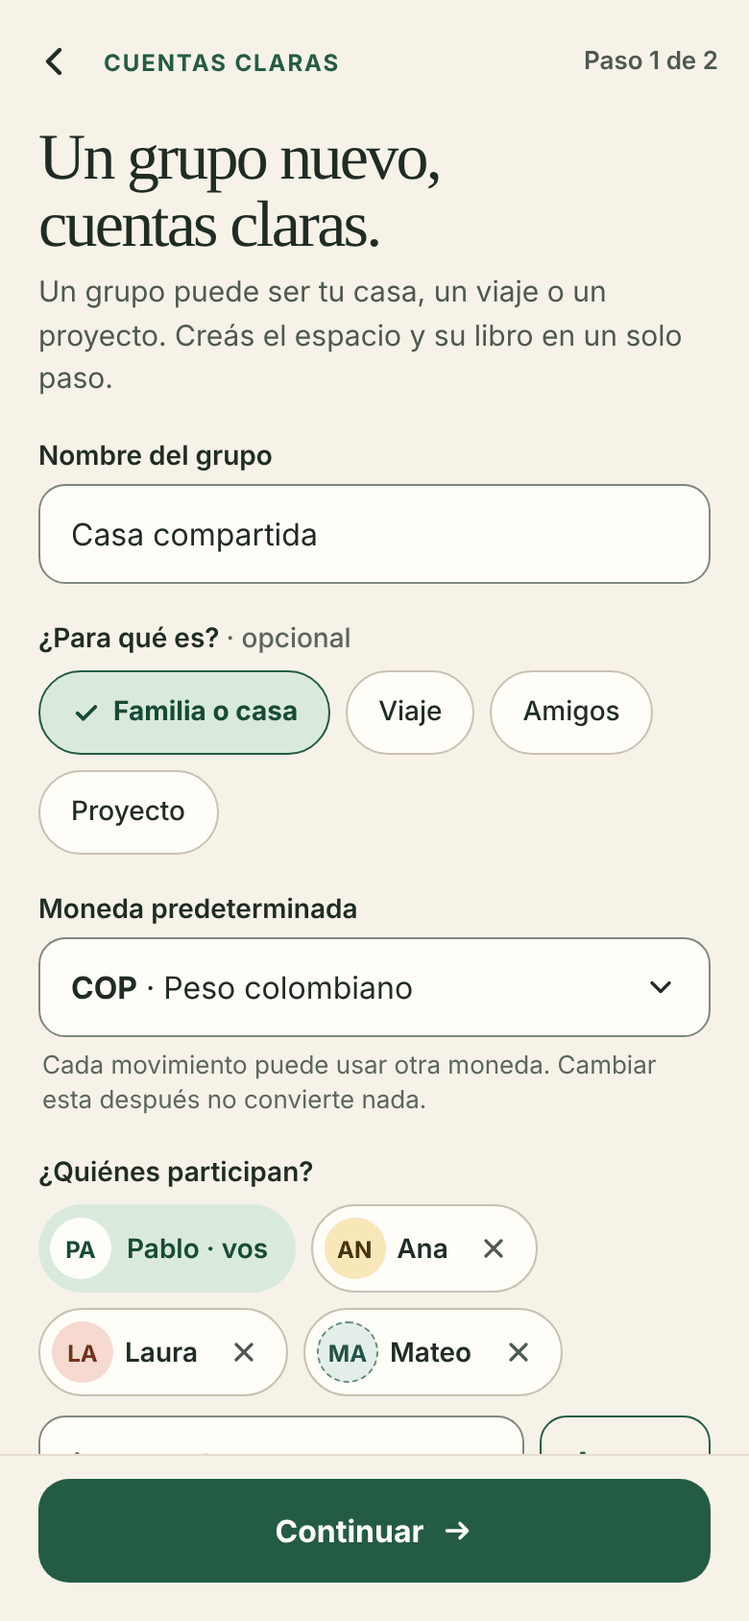
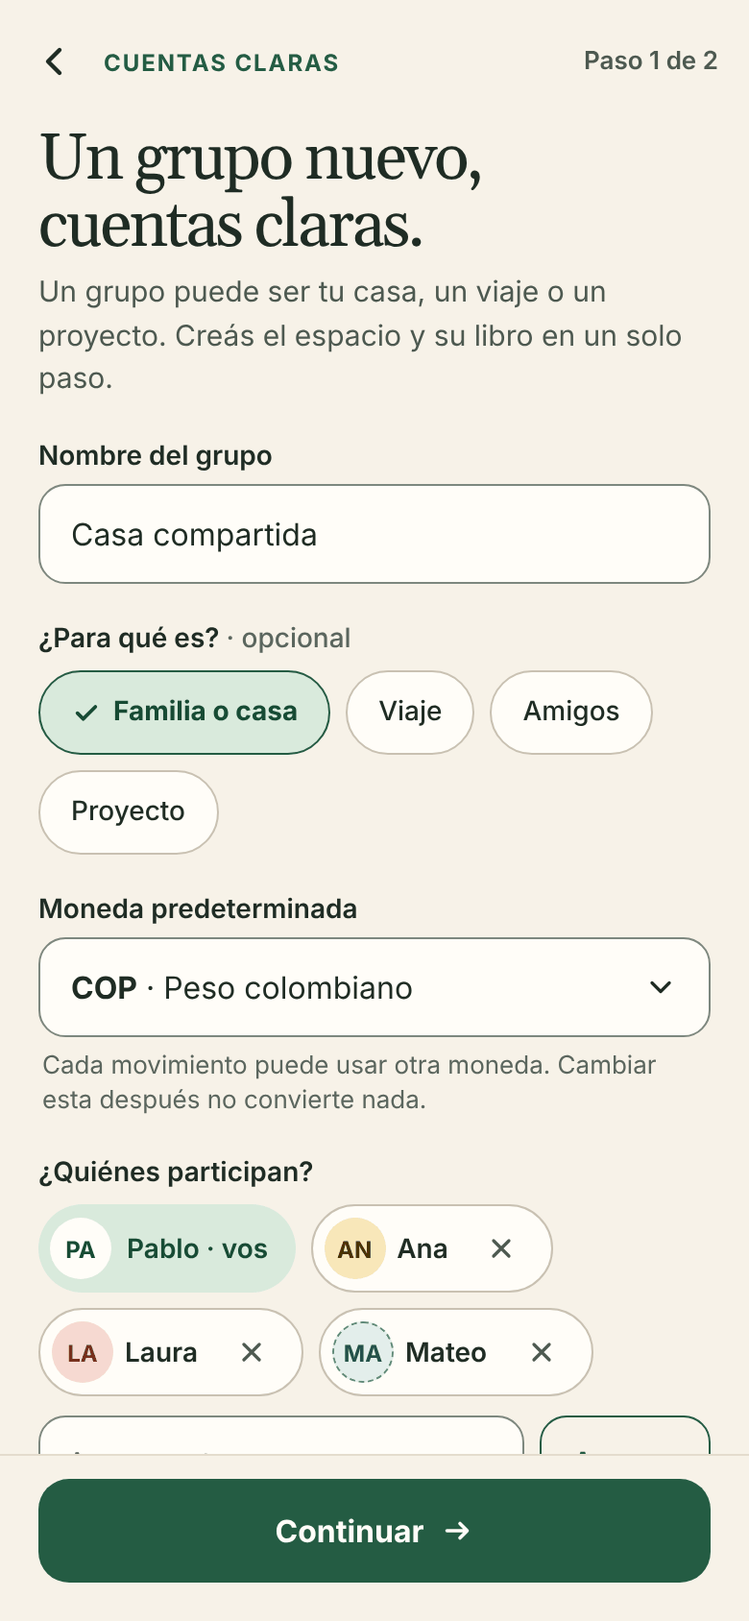
Corregir hallazgos de la verificación de Cuentas Claras y documentar sus límites
Contraste del texto secundario sobre el verde en modo oscuro (4,39 a 4,82),
placeholders con color del tema, botones Quitar a 44 px, capturas regeneradas
con tipografía de medidas Georgia, script de auditoría y sección de
verificación del README.

Claude-Session: https://claude.ai/code/session_01UbZx6jd23ueNQqx8cAgRSF

Changed region(s): [[0.0615, 0.0616, 0.6462, 0.154], [0.3077, 0.8009, 0.6462, 0.8626], [0.6462, 0.7393, 0.7692, 0.8626]]

diff --git a/docs/diseno/cuentas-claras/herramientas/auditar.js b/docs/diseno/cuentas-claras/herramientas/auditar.js
@@ -1,0 +1,80 @@
+// Auditoría automática de las 10 pantallas en claro y oscuro (Chromium).
+// Mide en el DOM: contraste de TODO el texto contra su fondo efectivo (WCAG AA: 4,5, o 3 si es texto
+// grande), tamaño de los controles táctiles (< 44 px), texto recortado, desbordes horizontales,
+// tamaño de letra < 11 px, botones sin nombre y campos sin etiqueta. Escribe audit.json y un resumen.
+// Uso: igual que capturar.js (mismo servidor en el puerto 8899 y carpeta fonts/). Sin argumentos.
+// Límites: no evalúa contraste de bordes ni de íconos, ni estados hover o foco, ni fondos con degradé.
+// Los resultados "tap" incluyen íconos decorativos y radios dentro de etiquetas: revisarlos a mano.
+const { chromium } = require('playwright');
+const screens=[['NuevoGrupo','phone'],['PuntoDePartida','phone'],['Importar','page'],['Main','phone'],['Movimientos','phone'],['Agregar','phone'],['Detalle','phone'],['SaldoDe','phone'],['Escritorio','page'],['Personas','phone']];
+const GEORGIA=`@font-face{font-family:Georgia;src:url(http://127.0.0.1:8899/fonts/gelasio-latin-400-normal.woff2);font-weight:400}@font-face{font-family:Georgia;src:url(http://127.0.0.1:8899/fonts/gelasio-latin-700-normal.woff2);font-weight:700}`;
+function pageAudit(){
+  const parse=c=>{const m=c.match(/rgba?\(([^)]+)\)/);if(!m)return null;const a=m[1].split(/[ ,\/]+/).filter(Boolean).map(Number);return {r:a[0],g:a[1],b:a[2],a:a.length>3?a[3]:1}};
+  const comp=(f,b)=>({r:f.r*f.a+b.r*(1-f.a),g:f.g*f.a+b.g*(1-f.a),b:f.b*f.a+b.b*(1-f.a),a:1});
+  const lum=c=>{const f=v=>{v/=255;return v<=.03928?v/12.92:Math.pow((v+.055)/1.055,2.4)};return .2126*f(c.r)+.7152*f(c.g)+.0722*f(c.b)};
+  const ratio=(a,b)=>{const x=lum(a),y=lum(b);return (Math.max(x,y)+.05)/(Math.min(x,y)+.05)};
+  const bgOf=el=>{ // composite ancestors bottom-up
+    let layers=[],n=el,grad=false;
+    while(n&&n.nodeType===1){const cs=getComputedStyle(n);const c=parse(cs.backgroundColor);
+      if(cs.backgroundImage&&cs.backgroundImage!=='none')grad=true;
+      if(c&&c.a>0)layers.push(c); if(c&&c.a>=1&&!grad)break; n=n.parentElement;}
+    let base={r:255,g:255,b:255,a:1}; for(let i=layers.length-1;i>=0;i--)base=comp(layers[i],base); return {c:base,grad};
+  };
+  const opac=el=>{let o=1,n=el;while(n&&n.nodeType===1){o*=parseFloat(getComputedStyle(n).opacity);n=n.parentElement}return o};
+  const out={contrast:[],layout:[],tap:[],fonts:new Set(),meta:{}};
+  const W=document.documentElement.clientWidth;
+  out.meta={sw:document.documentElement.scrollWidth,sh:document.documentElement.scrollHeight,bodyH:document.body.scrollHeight,W};
+  const walker=document.createTreeWalker(document.body,NodeFilter.SHOW_TEXT);
+  const seen=new Set();let t;
+  while(t=walker.nextNode()){
+    const txt=t.nodeValue.trim(); if(!txt)continue; const el=t.parentElement; if(!el||seen.has(el))continue; seen.add(el);
+    if(['SCRIPT','STYLE','HELMET','NOSCRIPT'].includes(el.tagName))continue;
+    const cs=getComputedStyle(el); if(cs.visibility==='hidden'||cs.display==='none')continue;
+    const r=el.getBoundingClientRect(); if(r.width===0||r.height===0)continue;
+    let fg=parse(cs.color); const bgr=bgOf(el); const o=opac(el); fg={...fg,a:fg.a*o};
+    const eff=comp(fg,bgr.c); const cr=ratio(eff,bgr.c);
+    const fs=parseFloat(cs.fontSize),fw=parseInt(cs.fontWeight);
+    const large=fs>=24||(fs>=18.66&&fw>=700); const need=large?3:4.5;
+    if(cr<need)out.contrast.push({txt:txt.slice(0,40),cr:+cr.toFixed(2),need,fs,fw,fg:cs.color,bg:`rgb(${bgr.c.r|0},${bgr.c.g|0},${bgr.c.b|0})`,grad:bgr.grad,tag:el.tagName+'.'+(el.className||'').toString().slice(0,20)});
+    if(fs<11)out.layout.push({kind:'small-font',txt:txt.slice(0,30),fs});
+  }
+  // layout
+  for(const el of document.body.querySelectorAll('*')){
+    const cs=getComputedStyle(el); if(cs.display==='none'||cs.visibility==='hidden')continue;
+    const r=el.getBoundingClientRect(); if(r.width===0&&r.height===0)continue;
+    if(['SCRIPT','STYLE','HELMET'].includes(el.tagName))continue;
+    // clipped text
+    if((cs.overflow==='hidden'||cs.overflowX==='hidden'||cs.textOverflow==='ellipsis')&&el.scrollWidth>el.clientWidth+1&&el.children.length<4&&el.textContent.trim())
+      out.layout.push({kind:'clipped',txt:el.textContent.trim().slice(0,40),sw:el.scrollWidth,cw:el.clientWidth});
+    // offscreen horizontally (unless inside scroll container)
+    if(r.right>W+1||r.left<-1){let n=el.parentElement,sc=false;while(n&&n!==document.body){const c=getComputedStyle(n);if(/(auto|scroll|hidden)/.test(c.overflowX)){sc=true;break}n=n.parentElement}
+      if(!sc)out.layout.push({kind:'offscreen',tag:el.tagName,txt:(el.textContent||'').trim().slice(0,30),l:Math.round(r.left),r:Math.round(r.right)});}
+    // tap targets
+    const tag=el.tagName; const isCtl=['BUTTON','A','SELECT','TEXTAREA'].includes(tag)||(tag==='INPUT'&&!['hidden'].includes(el.type))||el.getAttribute('role')==='button'||el.getAttribute('tabindex')==='0'||cs.cursor==='pointer';
+    if(isCtl&&!(el.children.length&&el.querySelector('button,a,input'))){ if(r.width<44||r.height<44)out.tap.push({tag,txt:((el.textContent||el.getAttribute('aria-label')||el.type||'')+'').trim().slice(0,28),w:Math.round(r.width),h:Math.round(r.height)});}
+    cs.fontFamily&&out.fonts.add(cs.fontFamily.split(',')[0].replace(/['"]/g,''));
+  }
+  out.fonts=[...out.fonts];
+  // images / svg without label
+  out.meta.imgsNoAlt=[...document.querySelectorAll('img:not([alt])')].length;
+  out.meta.btnNoName=[...document.querySelectorAll('button')].filter(b=>!(b.textContent.trim()||b.getAttribute('aria-label')||b.title)).length;
+  out.meta.inputNoLabel=[...document.querySelectorAll('input,select,textarea')].filter(i=>!(i.id&&document.querySelector(`label[for="${i.id}"]`))&&!i.closest('label')&&!i.getAttribute('aria-label')).length;
+  return out;
+}
+(async()=>{
+  const b=await chromium.launch(); const res={};
+  for(const scheme of ['light','dark']){
+    const ctx=await b.newContext({colorScheme:scheme,deviceScaleFactor:1});
+    await ctx.route('**/fonts.googleapis.com/**',r=>r.fulfill({status:200,contentType:'text/css',body:''}));
+    await ctx.addInitScript(`document.addEventListener('DOMContentLoaded',()=>{const s=document.createElement('style');s.textContent=${JSON.stringify(GEORGIA)};document.head.appendChild(s)})`);
+    for(const [f,kind] of screens){
+      const p=await ctx.newPage(); await p.setViewportSize(kind==='phone'?{width:390,height:844}:{width:1280,height:900});
+      await p.goto(`http://127.0.0.1:8899/${f}.dc.html`); await p.waitForTimeout(1200);
+      await p.evaluate(()=>document.fonts.ready);
+      res[`${f}|${scheme}`]=await p.evaluate(pageAudit); await p.close();
+    }
+    await ctx.close();
+  }
+  await b.close(); require('fs').writeFileSync('audit.json',JSON.stringify(res,null,1));
+  for(const [k,v] of Object.entries(res)){console.log(`${k}: sw=${v.meta.sw}/${v.meta.W} sh=${v.meta.sh} contrast=${v.contrast.length} layout=${v.layout.length} tap=${v.tap.length} fonts=${v.fonts.join('/')} noname=${v.meta.btnNoName} nolabel=${v.meta.inputNoLabel}`)}
+})();

diff --git a/docs/diseno/cuentas-claras/project/NuevoGrupo.dc.html b/docs/diseno/cuentas-claras/project/NuevoGrupo.dc.html
@@ -10,6 +10,7 @@
 <helmet>
 <link rel="stylesheet" href="https://fonts.googleapis.com/css2?family=Inter:wght@400;500;600;700;800&display=swap">
 <style>
+input::placeholder,textarea::placeholder{color:var(--ink-3);opacity:1}
 :root{color-scheme:light dark;--bg:#f7f2e8;--surface:#fffdf8;--ink:#1f2c24;--ink-1:#3d4a41;--ink-2:#4d5950;--ink-3:#5b665e;--accent-bg:#245c43;--accent-text:#245c43;--accent-line:#245c43;--accent-deep:#174b34;--accent-soft:#d9eadc;--ok-bg:#eef6ef;--neg:#a8412c;--coral-soft:#f6d9d1;--coral-text:#7a2e1d;--yel-soft:#f8e7b9;--yel-text:#4a3300;--warn-bg:#fbf4de;--warn-line:#ecd48f;--warn-line-2:#b79b45;--sunken:#fbf7ee;--teal-soft:#e3eeeb;--teal-text:#24504b;--teal-line:#5b8a7f;--line-soft:#efe8db;--line:#e4dccd;--line-strong:#c9c1b2;--line-mid:#d9d2c5;--field:#7d887f;--chip:#ece4d5;--shadow:rgba(31,44,36,.2);}
 @media (prefers-color-scheme: dark){:root:not([data-theme="light"]){--bg:#121c17;--surface:#1b2822;--ink:#ece6d8;--ink-1:#cdd5cb;--ink-2:#b9c3b9;--ink-3:#a0ab9f;--accent-bg:#2f7a58;--accent-text:#7fd0a6;--accent-line:#6fc29a;--accent-deep:#a8e0c2;--accent-soft:#1f3a2d;--ok-bg:#1a3126;--neg:#f2a08b;--coral-soft:#4a2b24;--coral-text:#f6bfb0;--yel-soft:#4a3d17;--yel-text:#f3d98e;--warn-bg:#2c2814;--warn-line:#6d5c22;--warn-line-2:#8c7430;--sunken:#1f2c26;--teal-soft:#1f3a39;--teal-text:#a3d6ce;--teal-line:#7fb3a6;--line-soft:#2a3931;--line:#31423a;--line-strong:#50625a;--line-mid:#3c4c43;--field:#8a998f;--chip:#26352d;--shadow:rgba(0,0,0,.55);}}
 :root[data-theme="dark"]{color-scheme:dark;--bg:#121c17;--surface:#1b2822;--ink:#ece6d8;--ink-1:#cdd5cb;--ink-2:#b9c3b9;--ink-3:#a0ab9f;--accent-bg:#2f7a58;--accent-text:#7fd0a6;--accent-line:#6fc29a;--accent-deep:#a8e0c2;--accent-soft:#1f3a2d;--ok-bg:#1a3126;--neg:#f2a08b;--coral-soft:#4a2b24;--coral-text:#f6bfb0;--yel-soft:#4a3d17;--yel-text:#f3d98e;--warn-bg:#2c2814;--warn-line:#6d5c22;--warn-line-2:#8c7430;--sunken:#1f2c26;--teal-soft:#1f3a39;--teal-text:#a3d6ce;--teal-line:#7fb3a6;--line-soft:#2a3931;--line:#31423a;--line-strong:#50625a;--line-mid:#3c4c43;--field:#8a998f;--chip:#26352d;--shadow:rgba(0,0,0,.55);}
@@ -58,13 +59,13 @@ a{color:var(--accent-text)}a:hover{color:var(--accent-deep)}
         <span aria-hidden="true" style="display:grid;place-items:center;width:32px;height:32px;border-radius:50%;background:var(--surface);font-size:12px;font-weight:700">PA</span>Pablo · vos</span>
       <span style="display:inline-flex;align-items:center;gap:6px;min-height:44px;padding:0 4px 0 6px;border-radius:999px;background:var(--surface);border:1.5px solid var(--line-strong);font-size:14px;font-weight:600">
         <span aria-hidden="true" style="display:grid;place-items:center;width:32px;height:32px;border-radius:50%;background:var(--yel-soft);color:var(--yel-text);font-size:12px;font-weight:700">AN</span>Ana
-        <button aria-label="Quitar a Ana" style="display:grid;place-items:center;width:36px;height:36px;padding:0;border:0;border-radius:50%;background:transparent;color:var(--ink-2)"><svg width="16" height="16" viewBox="0 0 24 24" fill="none" stroke="currentColor" stroke-width="2.4" stroke-linecap="round" aria-hidden="true"><path d="M6 6l12 12M18 6 6 18"/></svg></button></span>
+        <button aria-label="Quitar a Ana" style="display:grid;place-items:center;width:44px;height:44px;padding:0;border:0;border-radius:50%;background:transparent;color:var(--ink-2)"><svg width="16" height="16" viewBox="0 0 24 24" fill="none" stroke="currentColor" stroke-width="2.4" stroke-linecap="round" aria-hidden="true"><path d="M6 6l12 12M18 6 6 18"/></svg></button></span>
       <span style="display:inline-flex;align-items:center;gap:6px;min-height:44px;padding:0 4px 0 6px;border-radius:999px;background:var(--surface);border:1.5px solid var(--line-strong);font-size:14px;font-weight:600">
         <span aria-hidden="true" style="display:grid;place-items:center;width:32px;height:32px;border-radius:50%;background:var(--coral-soft);color:var(--coral-text);font-size:12px;font-weight:700">LA</span>Laura
-        <button aria-label="Quitar a Laura" style="display:grid;place-items:center;width:36px;height:36px;padding:0;border:0;border-radius:50%;background:transparent;color:var(--ink-2)"><svg width="16" height="16" viewBox="0 0 24 24" fill="none" stroke="currentColor" stroke-width="2.4" stroke-linecap="round" aria-hidden="true"><path d="M6 6l12 12M18 6 6 18"/></svg></button></span>
+        <button aria-label="Quitar a Laura" style="display:grid;place-items:center;width:44px;height:44px;padding:0;border:0;border-radius:50%;background:transparent;color:var(--ink-2)"><svg width="16" height="16" viewBox="0 0 24 24" fill="none" stroke="currentColor" stroke-width="2.4" stroke-linecap="round" aria-hidden="true"><path d="M6 6l12 12M18 6 6 18"/></svg></button></span>
       <span style="display:inline-flex;align-items:center;gap:6px;min-height:44px;padding:0 4px 0 6px;border-radius:999px;background:var(--surface);border:1.5px solid var(--line-strong);font-size:14px;font-weight:600">
         <span aria-hidden="true" style="display:grid;place-items:center;width:30px;height:30px;border-radius:50%;border:1.5px dashed var(--teal-line);background:var(--teal-soft);color:var(--teal-text);font-size:12px;font-weight:700">MA</span>Mateo
-        <button aria-label="Quitar a Mateo" style="display:grid;place-items:center;width:36px;height:36px;padding:0;border:0;border-radius:50%;background:transparent;color:var(--ink-2)"><svg width="16" height="16" viewBox="0 0 24 24" fill="none" stroke="currentColor" stroke-width="2.4" stroke-linecap="round" aria-hidden="true"><path d="M6 6l12 12M18 6 6 18"/></svg></button></span>
+        <button aria-label="Quitar a Mateo" style="display:grid;place-items:center;width:44px;height:44px;padding:0;border:0;border-radius:50%;background:transparent;color:var(--ink-2)"><svg width="16" height="16" viewBox="0 0 24 24" fill="none" stroke="currentColor" stroke-width="2.4" stroke-linecap="round" aria-hidden="true"><path d="M6 6l12 12M18 6 6 18"/></svg></button></span>
     </div>
 
     <div style="display:flex;gap:8px;margin-top:10px">

diff --git a/docs/diseno/cuentas-claras/project/Escritorio.dc.html b/docs/diseno/cuentas-claras/project/Escritorio.dc.html
@@ -10,6 +10,7 @@
 <helmet>
 <link rel="stylesheet" href="https://fonts.googleapis.com/css2?family=Inter:wght@400;500;600;700;800&display=swap">
 <style>
+input::placeholder,textarea::placeholder{color:var(--ink-3);opacity:1}
 :root{color-scheme:light dark;--bg:#f7f2e8;--surface:#fffdf8;--ink:#1f2c24;--ink-1:#3d4a41;--ink-2:#4d5950;--ink-3:#5b665e;--accent-bg:#245c43;--accent-text:#245c43;--accent-line:#245c43;--accent-deep:#174b34;--accent-soft:#d9eadc;--ok-bg:#eef6ef;--neg:#a8412c;--coral-soft:#f6d9d1;--coral-text:#7a2e1d;--yel-soft:#f8e7b9;--yel-text:#4a3300;--warn-bg:#fbf4de;--warn-line:#ecd48f;--warn-line-2:#b79b45;--sunken:#fbf7ee;--teal-soft:#e3eeeb;--teal-text:#24504b;--teal-line:#5b8a7f;--line-soft:#efe8db;--line:#e4dccd;--line-strong:#c9c1b2;--line-mid:#d9d2c5;--field:#7d887f;--chip:#ece4d5;--shadow:rgba(31,44,36,.2);}
 @media (prefers-color-scheme: dark){:root:not([data-theme="light"]){--bg:#121c17;--surface:#1b2822;--ink:#ece6d8;--ink-1:#cdd5cb;--ink-2:#b9c3b9;--ink-3:#a0ab9f;--accent-bg:#2f7a58;--accent-text:#7fd0a6;--accent-line:#6fc29a;--accent-deep:#a8e0c2;--accent-soft:#1f3a2d;--ok-bg:#1a3126;--neg:#f2a08b;--coral-soft:#4a2b24;--coral-text:#f6bfb0;--yel-soft:#4a3d17;--yel-text:#f3d98e;--warn-bg:#2c2814;--warn-line:#6d5c22;--warn-line-2:#8c7430;--sunken:#1f2c26;--teal-soft:#1f3a39;--teal-text:#a3d6ce;--teal-line:#7fb3a6;--line-soft:#2a3931;--line:#31423a;--line-strong:#50625a;--line-mid:#3c4c43;--field:#8a998f;--chip:#26352d;--shadow:rgba(0,0,0,.55);}}
 :root[data-theme="dark"]{color-scheme:dark;--bg:#121c17;--surface:#1b2822;--ink:#ece6d8;--ink-1:#cdd5cb;--ink-2:#b9c3b9;--ink-3:#a0ab9f;--accent-bg:#2f7a58;--accent-text:#7fd0a6;--accent-line:#6fc29a;--accent-deep:#a8e0c2;--accent-soft:#1f3a2d;--ok-bg:#1a3126;--neg:#f2a08b;--coral-soft:#4a2b24;--coral-text:#f6bfb0;--yel-soft:#4a3d17;--yel-text:#f3d98e;--warn-bg:#2c2814;--warn-line:#6d5c22;--warn-line-2:#8c7430;--sunken:#1f2c26;--teal-soft:#1f3a39;--teal-text:#a3d6ce;--teal-line:#7fb3a6;--line-soft:#2a3931;--line:#31423a;--line-strong:#50625a;--line-mid:#3c4c43;--field:#8a998f;--chip:#26352d;--shadow:rgba(0,0,0,.55);}
@@ -65,9 +66,9 @@ a{color:var(--accent-text)}a:hover{color:var(--accent-deep)}
         </div>
 
         <div style="padding:18px 20px;border-radius:24px;background:var(--accent-bg);color:#fffdf8">
-          <div style="font-size:12px;font-weight:600;color:#e3efe6">Tu saldo · COP</div>
+          <div style="font-size:12px;font-weight:600;color:#f2f8f4">Tu saldo · COP</div>
           <div style="font-size:38px;font-weight:800;letter-spacing:-.03em;line-height:1.15;font-variant-numeric:tabular-nums">+$1.748.350</div>
-          <p style="margin:4px 0 12px;font-size:14px;line-height:1.45;color:#e3efe6">Te corresponde recibir. Lo explican 38 movimientos.</p>
+          <p style="margin:4px 0 12px;font-size:14px;line-height:1.45;color:#f2f8f4">Te corresponde recibir. Lo explican 38 movimientos.</p>
           <a href="SaldoDe.dc.html" style="display:inline-flex;align-items:center;gap:6px;min-height:44px;padding:0 16px;border-radius:999px;border:1.5px solid rgba(255,253,248,.6);color:#fffdf8;font-size:14px;font-weight:600;text-decoration:none">Ver por qué
             <svg width="14" height="14" viewBox="0 0 24 24" fill="none" stroke="currentColor" stroke-width="2.4" stroke-linecap="round" stroke-linejoin="round" aria-hidden="true"><path d="m9 6 6 6-6 6"/></svg></a>
         </div>

diff --git a/docs/diseno/cuentas-claras/herramientas/capturar.js b/docs/diseno/cuentas-claras/herramientas/capturar.js
@@ -1,12 +1,17 @@
 // Genera las capturas PNG de docs/diseno/cuentas-claras/capturas (claro y oscuro).
 // Uso (ver README.md, sección "Regenerar las capturas"):
-//   1. Carpeta temporal con los .dc.html de ../project y un support.js (el runtime del tipo Design).
+//   1. Carpeta temporal con los .dc.html de ../project, un support.js (el runtime del tipo Design)
+//      y una subcarpeta fonts/ con gelasio-latin-400-normal.woff2 y gelasio-latin-700-normal.woff2
+//      (npm i @fontsource/gelasio; están en node_modules/@fontsource/gelasio/files).
 //   2. python3 -m http.server 8899 --bind 127.0.0.1   (dentro de esa carpeta)
 //   3. NODE_PATH=$(npm root -g) node capturar.js <carpeta-de-salida>
-// Requiere Playwright. Si no hay acceso a Google Fonts, Inter cae a la tipografía del sistema.
+// Requiere Playwright y la tipografía Inter instalada en el sistema (o npm i @fontsource/inter).
+// Georgia no existe en Linux: se sustituye por Gelasio, que tiene sus mismas medidas. Los trazos
+// de las letras difieren un poco; en macOS, Windows e iOS el diseño usa la Georgia real.
 const { chromium } = require('playwright');
 const fs=require('fs');
 const OUT=process.argv[2];
+const GEORGIA=`@font-face{font-family:Georgia;src:url(http://127.0.0.1:8899/fonts/gelasio-latin-400-normal.woff2);font-weight:400}@font-face{font-family:Georgia;src:url(http://127.0.0.1:8899/fonts/gelasio-latin-700-normal.woff2);font-weight:700}`;
 const boards=[
  ['NuevoGrupo','01-nuevo-grupo','phone'],['PuntoDePartida','02-punto-de-partida','phone'],['Importar','03-importar-splitwise','page'],
  ['Main','04-saldos','phone'],['Movimientos','05-movimientos-y-busqueda','phone'],['Agregar','06-agregar-movimiento','phone'],
@@ -20,8 +25,8 @@ const boards=[
       const p=await ctx.newPage();
       await p.setViewportSize(kind==='phone'?{width:390,height:844}:{width:1280,height:900});
       p.on('pageerror',e=>console.log('pageerror',file,e.message.slice(0,200)));
-      await p.route('**/fonts.googleapis.com/**',r=>r.abort());
-      await p.goto('http://127.0.0.1:8899/'+file+'.dc.html'); await p.waitForTimeout(900);
+      await p.route('**/fonts.googleapis.com/**',r=>r.fulfill({status:200,contentType:'text/css',body:''}));await p.addInitScript(`document.addEventListener('DOMContentLoaded',()=>{const s=document.createElement('style');s.textContent=${JSON.stringify(GEORGIA)};document.head.appendChild(s)})`);
+      await p.goto('http://127.0.0.1:8899/'+file+'.dc.html'); await p.waitForTimeout(900);await p.evaluate(()=>document.fonts.ready);
       const shot=async(n,full)=>p.screenshot({path:`${OUT}/${dir}/${n}.png`,fullPage:!!full});
       await shot(name, kind==='page');
       if(file==='Main'){ try{await p.getByRole('button',{name:/USD/}).first().click({timeout:3000});await p.waitForTimeout(400);await shot('04b-saldos-usd');}catch(e){console.log('skip USD',e.message.slice(0,80));} }

diff --git a/docs/diseno/cuentas-claras/project/Agregar.dc.html b/docs/diseno/cuentas-claras/project/Agregar.dc.html
@@ -10,6 +10,7 @@
 <helmet>
 <link rel="stylesheet" href="https://fonts.googleapis.com/css2?family=Inter:wght@400;500;600;700;800&display=swap">
 <style>
+input::placeholder,textarea::placeholder{color:var(--ink-3);opacity:1}
 :root{color-scheme:light dark;--bg:#f7f2e8;--surface:#fffdf8;--ink:#1f2c24;--ink-1:#3d4a41;--ink-2:#4d5950;--ink-3:#5b665e;--accent-bg:#245c43;--accent-text:#245c43;--accent-line:#245c43;--accent-deep:#174b34;--accent-soft:#d9eadc;--ok-bg:#eef6ef;--neg:#a8412c;--coral-soft:#f6d9d1;--coral-text:#7a2e1d;--yel-soft:#f8e7b9;--yel-text:#4a3300;--warn-bg:#fbf4de;--warn-line:#ecd48f;--warn-line-2:#b79b45;--sunken:#fbf7ee;--teal-soft:#e3eeeb;--teal-text:#24504b;--teal-line:#5b8a7f;--line-soft:#efe8db;--line:#e4dccd;--line-strong:#c9c1b2;--line-mid:#d9d2c5;--field:#7d887f;--chip:#ece4d5;--shadow:rgba(31,44,36,.2);}
 @media (prefers-color-scheme: dark){:root:not([data-theme="light"]){--bg:#121c17;--surface:#1b2822;--ink:#ece6d8;--ink-1:#cdd5cb;--ink-2:#b9c3b9;--ink-3:#a0ab9f;--accent-bg:#2f7a58;--accent-text:#7fd0a6;--accent-line:#6fc29a;--accent-deep:#a8e0c2;--accent-soft:#1f3a2d;--ok-bg:#1a3126;--neg:#f2a08b;--coral-soft:#4a2b24;--coral-text:#f6bfb0;--yel-soft:#4a3d17;--yel-text:#f3d98e;--warn-bg:#2c2814;--warn-line:#6d5c22;--warn-line-2:#8c7430;--sunken:#1f2c26;--teal-soft:#1f3a39;--teal-text:#a3d6ce;--teal-line:#7fb3a6;--line-soft:#2a3931;--line:#31423a;--line-strong:#50625a;--line-mid:#3c4c43;--field:#8a998f;--chip:#26352d;--shadow:rgba(0,0,0,.55);}}
 :root[data-theme="dark"]{color-scheme:dark;--bg:#121c17;--surface:#1b2822;--ink:#ece6d8;--ink-1:#cdd5cb;--ink-2:#b9c3b9;--ink-3:#a0ab9f;--accent-bg:#2f7a58;--accent-text:#7fd0a6;--accent-line:#6fc29a;--accent-deep:#a8e0c2;--accent-soft:#1f3a2d;--ok-bg:#1a3126;--neg:#f2a08b;--coral-soft:#4a2b24;--coral-text:#f6bfb0;--yel-soft:#4a3d17;--yel-text:#f3d98e;--warn-bg:#2c2814;--warn-line:#6d5c22;--warn-line-2:#8c7430;--sunken:#1f2c26;--teal-soft:#1f3a39;--teal-text:#a3d6ce;--teal-line:#7fb3a6;--line-soft:#2a3931;--line:#31423a;--line-strong:#50625a;--line-mid:#3c4c43;--field:#8a998f;--chip:#26352d;--shadow:rgba(0,0,0,.55);}

diff --git a/docs/diseno/cuentas-claras/project/Detalle.dc.html b/docs/diseno/cuentas-claras/project/Detalle.dc.html
@@ -10,6 +10,7 @@
 <helmet>
 <link rel="stylesheet" href="https://fonts.googleapis.com/css2?family=Inter:wght@400;500;600;700;800&display=swap">
 <style>
+input::placeholder,textarea::placeholder{color:var(--ink-3);opacity:1}
 :root{color-scheme:light dark;--bg:#f7f2e8;--surface:#fffdf8;--ink:#1f2c24;--ink-1:#3d4a41;--ink-2:#4d5950;--ink-3:#5b665e;--accent-bg:#245c43;--accent-text:#245c43;--accent-line:#245c43;--accent-deep:#174b34;--accent-soft:#d9eadc;--ok-bg:#eef6ef;--neg:#a8412c;--coral-soft:#f6d9d1;--coral-text:#7a2e1d;--yel-soft:#f8e7b9;--yel-text:#4a3300;--warn-bg:#fbf4de;--warn-line:#ecd48f;--warn-line-2:#b79b45;--sunken:#fbf7ee;--teal-soft:#e3eeeb;--teal-text:#24504b;--teal-line:#5b8a7f;--line-soft:#efe8db;--line:#e4dccd;--line-strong:#c9c1b2;--line-mid:#d9d2c5;--field:#7d887f;--chip:#ece4d5;--shadow:rgba(31,44,36,.2);}
 @media (prefers-color-scheme: dark){:root:not([data-theme="light"]){--bg:#121c17;--surface:#1b2822;--ink:#ece6d8;--ink-1:#cdd5cb;--ink-2:#b9c3b9;--ink-3:#a0ab9f;--accent-bg:#2f7a58;--accent-text:#7fd0a6;--accent-line:#6fc29a;--accent-deep:#a8e0c2;--accent-soft:#1f3a2d;--ok-bg:#1a3126;--neg:#f2a08b;--coral-soft:#4a2b24;--coral-text:#f6bfb0;--yel-soft:#4a3d17;--yel-text:#f3d98e;--warn-bg:#2c2814;--warn-line:#6d5c22;--warn-line-2:#8c7430;--sunken:#1f2c26;--teal-soft:#1f3a39;--teal-text:#a3d6ce;--teal-line:#7fb3a6;--line-soft:#2a3931;--line:#31423a;--line-strong:#50625a;--line-mid:#3c4c43;--field:#8a998f;--chip:#26352d;--shadow:rgba(0,0,0,.55);}}
 :root[data-theme="dark"]{color-scheme:dark;--bg:#121c17;--surface:#1b2822;--ink:#ece6d8;--ink-1:#cdd5cb;--ink-2:#b9c3b9;--ink-3:#a0ab9f;--accent-bg:#2f7a58;--accent-text:#7fd0a6;--accent-line:#6fc29a;--accent-deep:#a8e0c2;--accent-soft:#1f3a2d;--ok-bg:#1a3126;--neg:#f2a08b;--coral-soft:#4a2b24;--coral-text:#f6bfb0;--yel-soft:#4a3d17;--yel-text:#f3d98e;--warn-bg:#2c2814;--warn-line:#6d5c22;--warn-line-2:#8c7430;--sunken:#1f2c26;--teal-soft:#1f3a39;--teal-text:#a3d6ce;--teal-line:#7fb3a6;--line-soft:#2a3931;--line:#31423a;--line-strong:#50625a;--line-mid:#3c4c43;--field:#8a998f;--chip:#26352d;--shadow:rgba(0,0,0,.55);}

diff --git a/docs/diseno/cuentas-claras/project/Importar.dc.html b/docs/diseno/cuentas-claras/project/Importar.dc.html
@@ -10,6 +10,7 @@
 <helmet>
 <link rel="stylesheet" href="https://fonts.googleapis.com/css2?family=Inter:wght@400;500;600;700;800&display=swap">
 <style>
+input::placeholder,textarea::placeholder{color:var(--ink-3);opacity:1}
 :root{color-scheme:light dark;--bg:#f7f2e8;--surface:#fffdf8;--ink:#1f2c24;--ink-1:#3d4a41;--ink-2:#4d5950;--ink-3:#5b665e;--accent-bg:#245c43;--accent-text:#245c43;--accent-line:#245c43;--accent-deep:#174b34;--accent-soft:#d9eadc;--ok-bg:#eef6ef;--neg:#a8412c;--coral-soft:#f6d9d1;--coral-text:#7a2e1d;--yel-soft:#f8e7b9;--yel-text:#4a3300;--warn-bg:#fbf4de;--warn-line:#ecd48f;--warn-line-2:#b79b45;--sunken:#fbf7ee;--teal-soft:#e3eeeb;--teal-text:#24504b;--teal-line:#5b8a7f;--line-soft:#efe8db;--line:#e4dccd;--line-strong:#c9c1b2;--line-mid:#d9d2c5;--field:#7d887f;--chip:#ece4d5;--shadow:rgba(31,44,36,.2);}
 @media (prefers-color-scheme: dark){:root:not([data-theme="light"]){--bg:#121c17;--surface:#1b2822;--ink:#ece6d8;--ink-1:#cdd5cb;--ink-2:#b9c3b9;--ink-3:#a0ab9f;--accent-bg:#2f7a58;--accent-text:#7fd0a6;--accent-line:#6fc29a;--accent-deep:#a8e0c2;--accent-soft:#1f3a2d;--ok-bg:#1a3126;--neg:#f2a08b;--coral-soft:#4a2b24;--coral-text:#f6bfb0;--yel-soft:#4a3d17;--yel-text:#f3d98e;--warn-bg:#2c2814;--warn-line:#6d5c22;--warn-line-2:#8c7430;--sunken:#1f2c26;--teal-soft:#1f3a39;--teal-text:#a3d6ce;--teal-line:#7fb3a6;--line-soft:#2a3931;--line:#31423a;--line-strong:#50625a;--line-mid:#3c4c43;--field:#8a998f;--chip:#26352d;--shadow:rgba(0,0,0,.55);}}
 :root[data-theme="dark"]{color-scheme:dark;--bg:#121c17;--surface:#1b2822;--ink:#ece6d8;--ink-1:#cdd5cb;--ink-2:#b9c3b9;--ink-3:#a0ab9f;--accent-bg:#2f7a58;--accent-text:#7fd0a6;--accent-line:#6fc29a;--accent-deep:#a8e0c2;--accent-soft:#1f3a2d;--ok-bg:#1a3126;--neg:#f2a08b;--coral-soft:#4a2b24;--coral-text:#f6bfb0;--yel-soft:#4a3d17;--yel-text:#f3d98e;--warn-bg:#2c2814;--warn-line:#6d5c22;--warn-line-2:#8c7430;--sunken:#1f2c26;--teal-soft:#1f3a39;--teal-text:#a3d6ce;--teal-line:#7fb3a6;--line-soft:#2a3931;--line:#31423a;--line-strong:#50625a;--line-mid:#3c4c43;--field:#8a998f;--chip:#26352d;--shadow:rgba(0,0,0,.55);}

diff --git a/docs/diseno/cuentas-claras/project/Movimientos.dc.html b/docs/diseno/cuentas-claras/project/Movimientos.dc.html
@@ -10,6 +10,7 @@
 <helmet>
 <link rel="stylesheet" href="https://fonts.googleapis.com/css2?family=Inter:wght@400;500;600;700;800&display=swap">
 <style>
+input::placeholder,textarea::placeholder{color:var(--ink-3);opacity:1}
 :root{color-scheme:light dark;--bg:#f7f2e8;--surface:#fffdf8;--ink:#1f2c24;--ink-1:#3d4a41;--ink-2:#4d5950;--ink-3:#5b665e;--accent-bg:#245c43;--accent-text:#245c43;--accent-line:#245c43;--accent-deep:#174b34;--accent-soft:#d9eadc;--ok-bg:#eef6ef;--neg:#a8412c;--coral-soft:#f6d9d1;--coral-text:#7a2e1d;--yel-soft:#f8e7b9;--yel-text:#4a3300;--warn-bg:#fbf4de;--warn-line:#ecd48f;--warn-line-2:#b79b45;--sunken:#fbf7ee;--teal-soft:#e3eeeb;--teal-text:#24504b;--teal-line:#5b8a7f;--line-soft:#efe8db;--line:#e4dccd;--line-strong:#c9c1b2;--line-mid:#d9d2c5;--field:#7d887f;--chip:#ece4d5;--shadow:rgba(31,44,36,.2);}
 @media (prefers-color-scheme: dark){:root:not([data-theme="light"]){--bg:#121c17;--surface:#1b2822;--ink:#ece6d8;--ink-1:#cdd5cb;--ink-2:#b9c3b9;--ink-3:#a0ab9f;--accent-bg:#2f7a58;--accent-text:#7fd0a6;--accent-line:#6fc29a;--accent-deep:#a8e0c2;--accent-soft:#1f3a2d;--ok-bg:#1a3126;--neg:#f2a08b;--coral-soft:#4a2b24;--coral-text:#f6bfb0;--yel-soft:#4a3d17;--yel-text:#f3d98e;--warn-bg:#2c2814;--warn-line:#6d5c22;--warn-line-2:#8c7430;--sunken:#1f2c26;--teal-soft:#1f3a39;--teal-text:#a3d6ce;--teal-line:#7fb3a6;--line-soft:#2a3931;--line:#31423a;--line-strong:#50625a;--line-mid:#3c4c43;--field:#8a998f;--chip:#26352d;--shadow:rgba(0,0,0,.55);}}
 :root[data-theme="dark"]{color-scheme:dark;--bg:#121c17;--surface:#1b2822;--ink:#ece6d8;--ink-1:#cdd5cb;--ink-2:#b9c3b9;--ink-3:#a0ab9f;--accent-bg:#2f7a58;--accent-text:#7fd0a6;--accent-line:#6fc29a;--accent-deep:#a8e0c2;--accent-soft:#1f3a2d;--ok-bg:#1a3126;--neg:#f2a08b;--coral-soft:#4a2b24;--coral-text:#f6bfb0;--yel-soft:#4a3d17;--yel-text:#f3d98e;--warn-bg:#2c2814;--warn-line:#6d5c22;--warn-line-2:#8c7430;--sunken:#1f2c26;--teal-soft:#1f3a39;--teal-text:#a3d6ce;--teal-line:#7fb3a6;--line-soft:#2a3931;--line:#31423a;--line-strong:#50625a;--line-mid:#3c4c43;--field:#8a998f;--chip:#26352d;--shadow:rgba(0,0,0,.55);}

diff --git a/docs/diseno/cuentas-claras/project/Personas.dc.html b/docs/diseno/cuentas-claras/project/Personas.dc.html
@@ -10,6 +10,7 @@
 <helmet>
 <link rel="stylesheet" href="https://fonts.googleapis.com/css2?family=Inter:wght@400;500;600;700;800&display=swap">
 <style>
+input::placeholder,textarea::placeholder{color:var(--ink-3);opacity:1}
 :root{color-scheme:light dark;--bg:#f7f2e8;--surface:#fffdf8;--ink:#1f2c24;--ink-1:#3d4a41;--ink-2:#4d5950;--ink-3:#5b665e;--accent-bg:#245c43;--accent-text:#245c43;--accent-line:#245c43;--accent-deep:#174b34;--accent-soft:#d9eadc;--ok-bg:#eef6ef;--neg:#a8412c;--coral-soft:#f6d9d1;--coral-text:#7a2e1d;--yel-soft:#f8e7b9;--yel-text:#4a3300;--warn-bg:#fbf4de;--warn-line:#ecd48f;--warn-line-2:#b79b45;--sunken:#fbf7ee;--teal-soft:#e3eeeb;--teal-text:#24504b;--teal-line:#5b8a7f;--line-soft:#efe8db;--line:#e4dccd;--line-strong:#c9c1b2;--line-mid:#d9d2c5;--field:#7d887f;--chip:#ece4d5;--shadow:rgba(31,44,36,.2);}
 @media (prefers-color-scheme: dark){:root:not([data-theme="light"]){--bg:#121c17;--surface:#1b2822;--ink:#ece6d8;--ink-1:#cdd5cb;--ink-2:#b9c3b9;--ink-3:#a0ab9f;--accent-bg:#2f7a58;--accent-text:#7fd0a6;--accent-line:#6fc29a;--accent-deep:#a8e0c2;--accent-soft:#1f3a2d;--ok-bg:#1a3126;--neg:#f2a08b;--coral-soft:#4a2b24;--coral-text:#f6bfb0;--yel-soft:#4a3d17;--yel-text:#f3d98e;--warn-bg:#2c2814;--warn-line:#6d5c22;--warn-line-2:#8c7430;--sunken:#1f2c26;--teal-soft:#1f3a39;--teal-text:#a3d6ce;--teal-line:#7fb3a6;--line-soft:#2a3931;--line:#31423a;--line-strong:#50625a;--line-mid:#3c4c43;--field:#8a998f;--chip:#26352d;--shadow:rgba(0,0,0,.55);}}
 :root[data-theme="dark"]{color-scheme:dark;--bg:#121c17;--surface:#1b2822;--ink:#ece6d8;--ink-1:#cdd5cb;--ink-2:#b9c3b9;--ink-3:#a0ab9f;--accent-bg:#2f7a58;--accent-text:#7fd0a6;--accent-line:#6fc29a;--accent-deep:#a8e0c2;--accent-soft:#1f3a2d;--ok-bg:#1a3126;--neg:#f2a08b;--coral-soft:#4a2b24;--coral-text:#f6bfb0;--yel-soft:#4a3d17;--yel-text:#f3d98e;--warn-bg:#2c2814;--warn-line:#6d5c22;--warn-line-2:#8c7430;--sunken:#1f2c26;--teal-soft:#1f3a39;--teal-text:#a3d6ce;--teal-line:#7fb3a6;--line-soft:#2a3931;--line:#31423a;--line-strong:#50625a;--line-mid:#3c4c43;--field:#8a998f;--chip:#26352d;--shadow:rgba(0,0,0,.55);}

diff --git a/docs/diseno/cuentas-claras/project/PuntoDePartida.dc.html b/docs/diseno/cuentas-claras/project/PuntoDePartida.dc.html
@@ -10,6 +10,7 @@
 <helmet>
 <link rel="stylesheet" href="https://fonts.googleapis.com/css2?family=Inter:wght@400;500;600;700;800&display=swap">
 <style>
+input::placeholder,textarea::placeholder{color:var(--ink-3);opacity:1}
 :root{color-scheme:light dark;--bg:#f7f2e8;--surface:#fffdf8;--ink:#1f2c24;--ink-1:#3d4a41;--ink-2:#4d5950;--ink-3:#5b665e;--accent-bg:#245c43;--accent-text:#245c43;--accent-line:#245c43;--accent-deep:#174b34;--accent-soft:#d9eadc;--ok-bg:#eef6ef;--neg:#a8412c;--coral-soft:#f6d9d1;--coral-text:#7a2e1d;--yel-soft:#f8e7b9;--yel-text:#4a3300;--warn-bg:#fbf4de;--warn-line:#ecd48f;--warn-line-2:#b79b45;--sunken:#fbf7ee;--teal-soft:#e3eeeb;--teal-text:#24504b;--teal-line:#5b8a7f;--line-soft:#efe8db;--line:#e4dccd;--line-strong:#c9c1b2;--line-mid:#d9d2c5;--field:#7d887f;--chip:#ece4d5;--shadow:rgba(31,44,36,.2);}
 @media (prefers-color-scheme: dark){:root:not([data-theme="light"]){--bg:#121c17;--surface:#1b2822;--ink:#ece6d8;--ink-1:#cdd5cb;--ink-2:#b9c3b9;--ink-3:#a0ab9f;--accent-bg:#2f7a58;--accent-text:#7fd0a6;--accent-line:#6fc29a;--accent-deep:#a8e0c2;--accent-soft:#1f3a2d;--ok-bg:#1a3126;--neg:#f2a08b;--coral-soft:#4a2b24;--coral-text:#f6bfb0;--yel-soft:#4a3d17;--yel-text:#f3d98e;--warn-bg:#2c2814;--warn-line:#6d5c22;--warn-line-2:#8c7430;--sunken:#1f2c26;--teal-soft:#1f3a39;--teal-text:#a3d6ce;--teal-line:#7fb3a6;--line-soft:#2a3931;--line:#31423a;--line-strong:#50625a;--line-mid:#3c4c43;--field:#8a998f;--chip:#26352d;--shadow:rgba(0,0,0,.55);}}
 :root[data-theme="dark"]{color-scheme:dark;--bg:#121c17;--surface:#1b2822;--ink:#ece6d8;--ink-1:#cdd5cb;--ink-2:#b9c3b9;--ink-3:#a0ab9f;--accent-bg:#2f7a58;--accent-text:#7fd0a6;--accent-line:#6fc29a;--accent-deep:#a8e0c2;--accent-soft:#1f3a2d;--ok-bg:#1a3126;--neg:#f2a08b;--coral-soft:#4a2b24;--coral-text:#f6bfb0;--yel-soft:#4a3d17;--yel-text:#f3d98e;--warn-bg:#2c2814;--warn-line:#6d5c22;--warn-line-2:#8c7430;--sunken:#1f2c26;--teal-soft:#1f3a39;--teal-text:#a3d6ce;--teal-line:#7fb3a6;--line-soft:#2a3931;--line:#31423a;--line-strong:#50625a;--line-mid:#3c4c43;--field:#8a998f;--chip:#26352d;--shadow:rgba(0,0,0,.55);}

diff --git a/docs/diseno/cuentas-claras/project/Main.dc.html b/docs/diseno/cuentas-claras/project/Main.dc.html
@@ -47,14 +47,14 @@ a{color:var(--accent-text)}a:hover{color:var(--accent-deep)}
     <section aria-label="Tu saldo en pesos" style="margin:12px 16px 0;padding:16px 18px 16px;border-radius:22px;background:var(--accent-bg);color:#fffdf8">
       <div style="display:flex;align-items:flex-end;justify-content:space-between;gap:8px">
         <div>
-          <div style="font-size:12px;font-weight:600;color:#e3efe6">Tu saldo · COP</div>
+          <div style="font-size:12px;font-weight:600;color:#f2f8f4">Tu saldo · COP</div>
           <div style="font-size:32px;font-weight:800;letter-spacing:-.03em;line-height:1.15;font-variant-numeric:tabular-nums">+$1.748.350</div>
         </div>
         <a href="SaldoDe.dc.html" style="display:inline-flex;align-items:center;gap:4px;min-height:44px;padding:0 14px;border-radius:999px;border:1.5px solid rgba(255,253,248,.6);color:#fffdf8;text-decoration:none;font-size:13px;font-weight:600">¿Por qué?
           <svg width="14" height="14" viewBox="0 0 24 24" fill="none" stroke="currentColor" stroke-width="2.4" stroke-linecap="round" stroke-linejoin="round" aria-hidden="true"><path d="m9 6 6 6-6 6"/></svg>
         </a>
       </div>
-      <p style="margin:4px 0 0;font-size:14px;line-height:1.4;color:#e3efe6">Te corresponde recibir. Lo explican 38 movimientos.</p>
+      <p style="margin:4px 0 0;font-size:14px;line-height:1.4;color:#f2f8f4">Te corresponde recibir. Lo explican 38 movimientos.</p>
     </section>
 
     <section aria-label="Saldos del grupo en pesos" style="margin:12px 16px 0;border-radius:22px;background:var(--surface);border:1px solid var(--line);overflow:hidden">

diff --git a/docs/diseno/cuentas-claras/project/SaldoDe.dc.html b/docs/diseno/cuentas-claras/project/SaldoDe.dc.html
@@ -31,9 +31,9 @@ a{color:var(--accent-text)}a:hover{color:var(--accent-deep)}
   <main style="flex:1;min-height:0;overflow-y:auto;padding:0 16px 16px">
 
     <section aria-label="Tu saldo en COP" style="margin-top:4px;padding:16px 18px;border-radius:22px;background:var(--accent-bg);color:#fffdf8">
-      <div style="font-size:12px;font-weight:600;color:#e3efe6">Por qué te deben · COP</div>
+      <div style="font-size:12px;font-weight:600;color:#f2f8f4">Por qué te deben · COP</div>
       <div style="font-size:34px;font-weight:800;letter-spacing:-.03em;line-height:1.15;font-variant-numeric:tabular-nums">+$1.748.350</div>
-      <p style="margin:4px 0 0;font-size:14px;line-height:1.45;color:#e3efe6">Es la suma de lo que cada movimiento te suma o te resta. Nada se carga a mano.</p>
+      <p style="margin:4px 0 0;font-size:14px;line-height:1.45;color:#f2f8f4">Es la suma de lo que cada movimiento te suma o te resta. Nada se carga a mano.</p>
     </section>
 
     <div style="display:flex;align-items:center;gap:8px;margin:10px 2px 8px;font-size:13px;color:var(--ink-2)">
